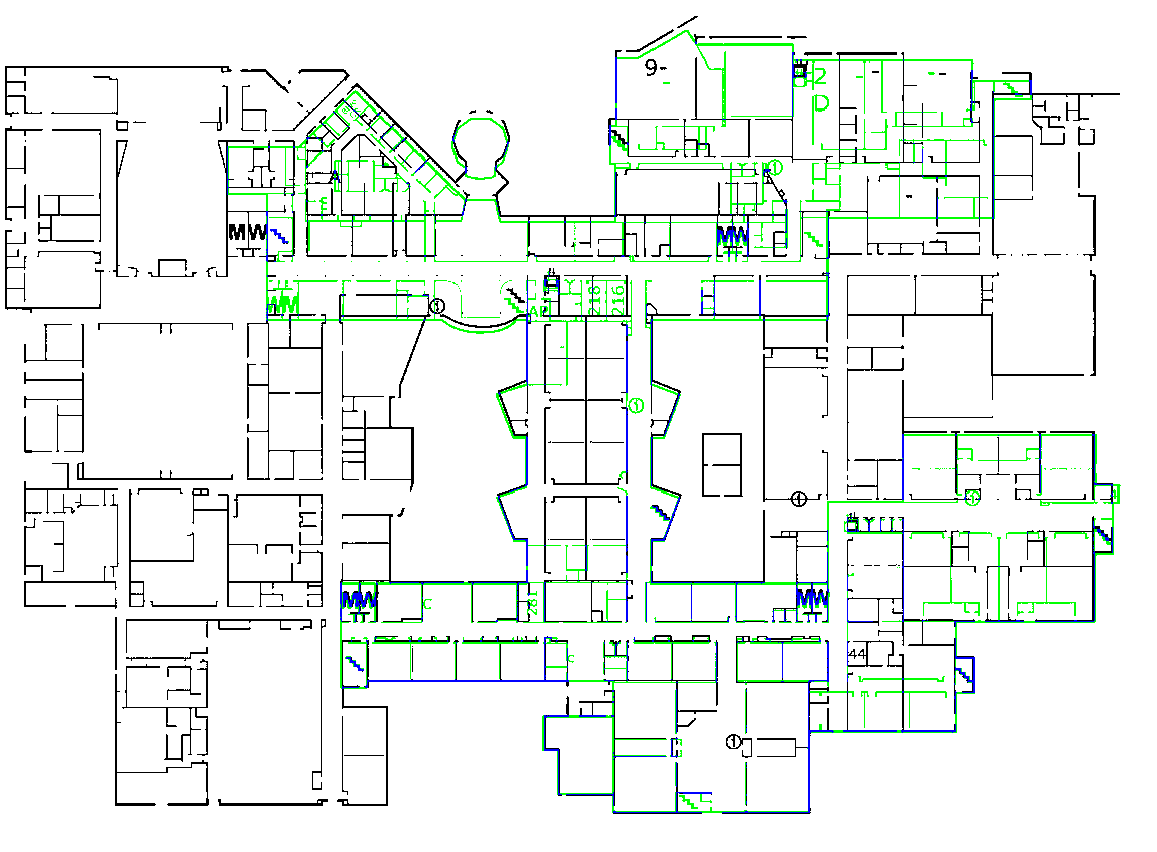
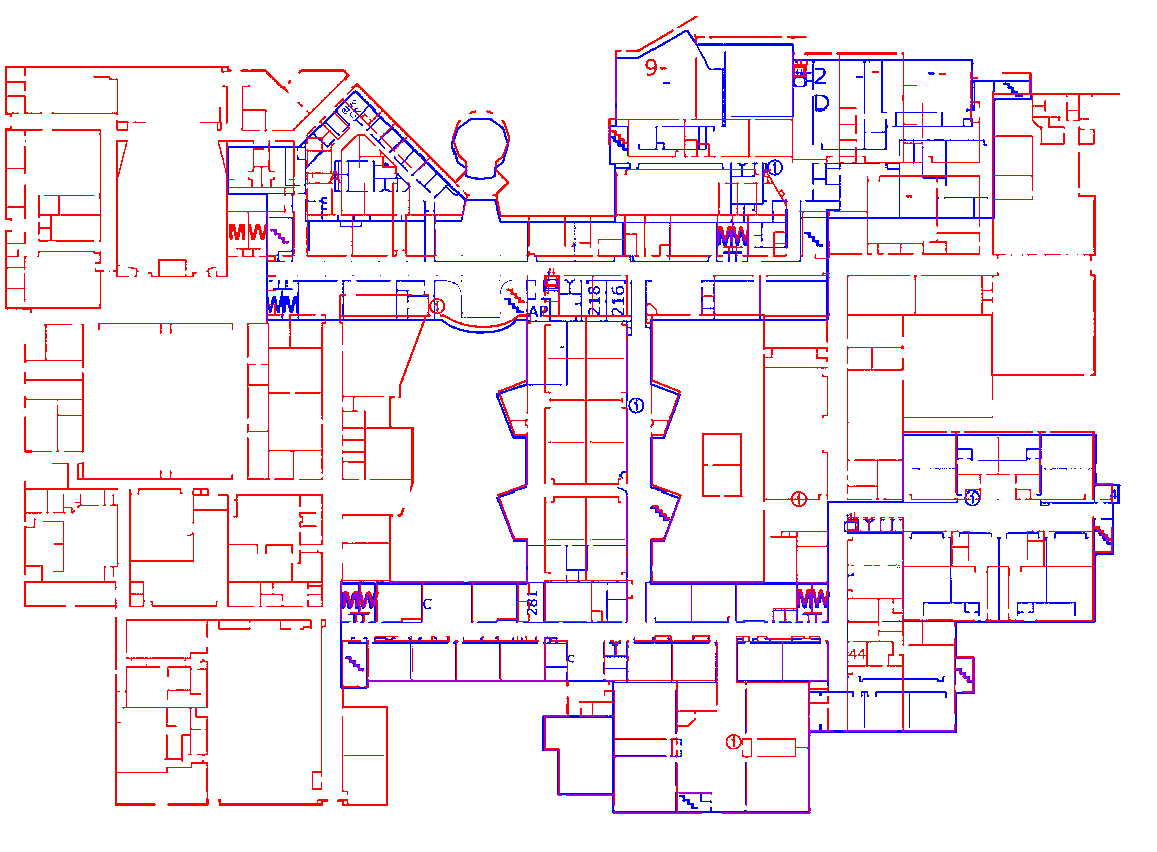
Updated matching floors colors to Red/Blue

diff --git a/match_stairs.py b/match_stairs.py
@@ -74,14 +74,17 @@ for x in range(image.size[0]):
         y2 = y - round(y2) - y_dif
 
         if x2 < 0 or y2 < 0 or x2 >= image2.size[0] or y2 >= image2.size[1]:
+            if pixels[x, y] == (0, 0, 0):
+                pixels[x, y] = (255, 0, 0)
             continue
 
         if pixels2[x2, y2] == (0, 0, 0):
             if pixels[x, y] == (0, 0, 0):
-
-                pixels[x, y] = (0, 0, 255)
+                pixels[x, y] = (148, 0, 211)
             else:
-                pixels[x, y] = (0, 255, 0)
+                pixels[x, y] = (0, 0, 255)
+        elif pixels[x, y] == (0, 0, 0):
+            pixels[x, y] = (255, 0, 0)
 
 # image.show()
 image.save("images/matched_floors.png")
